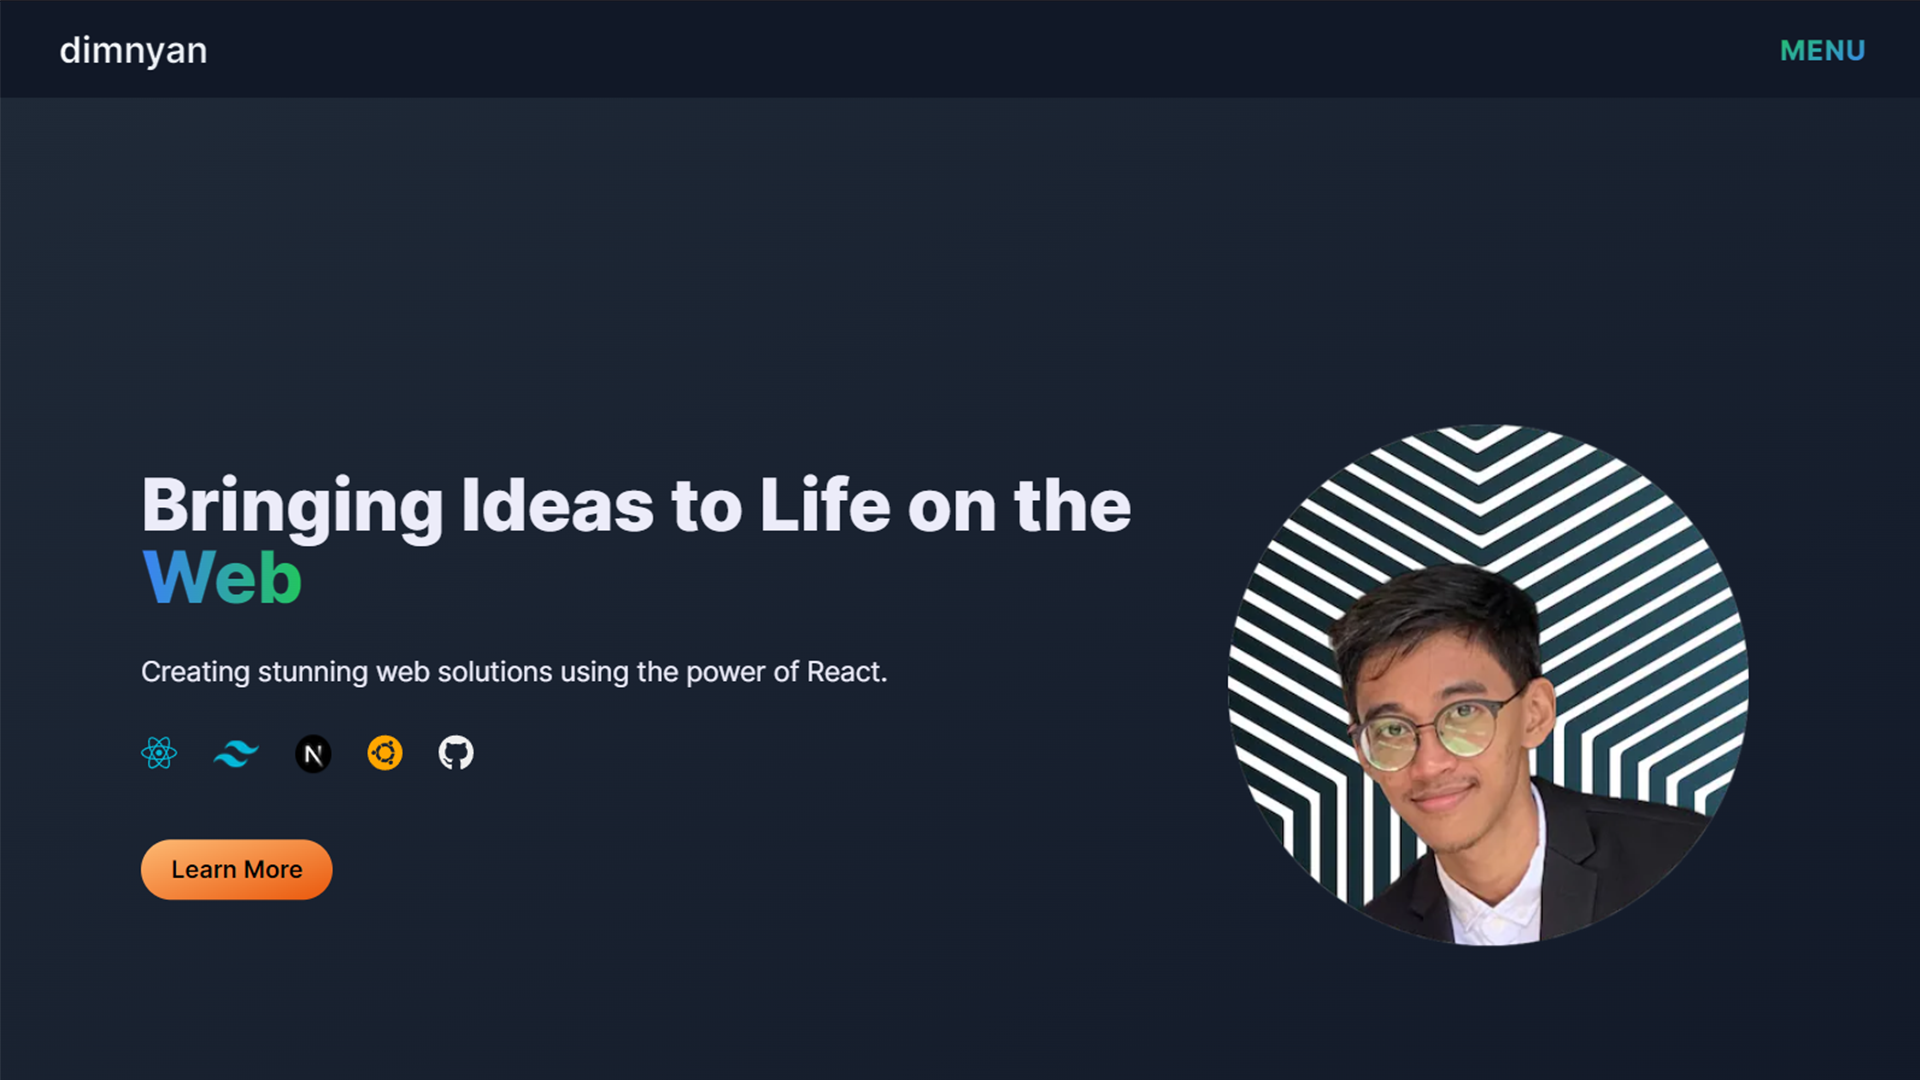
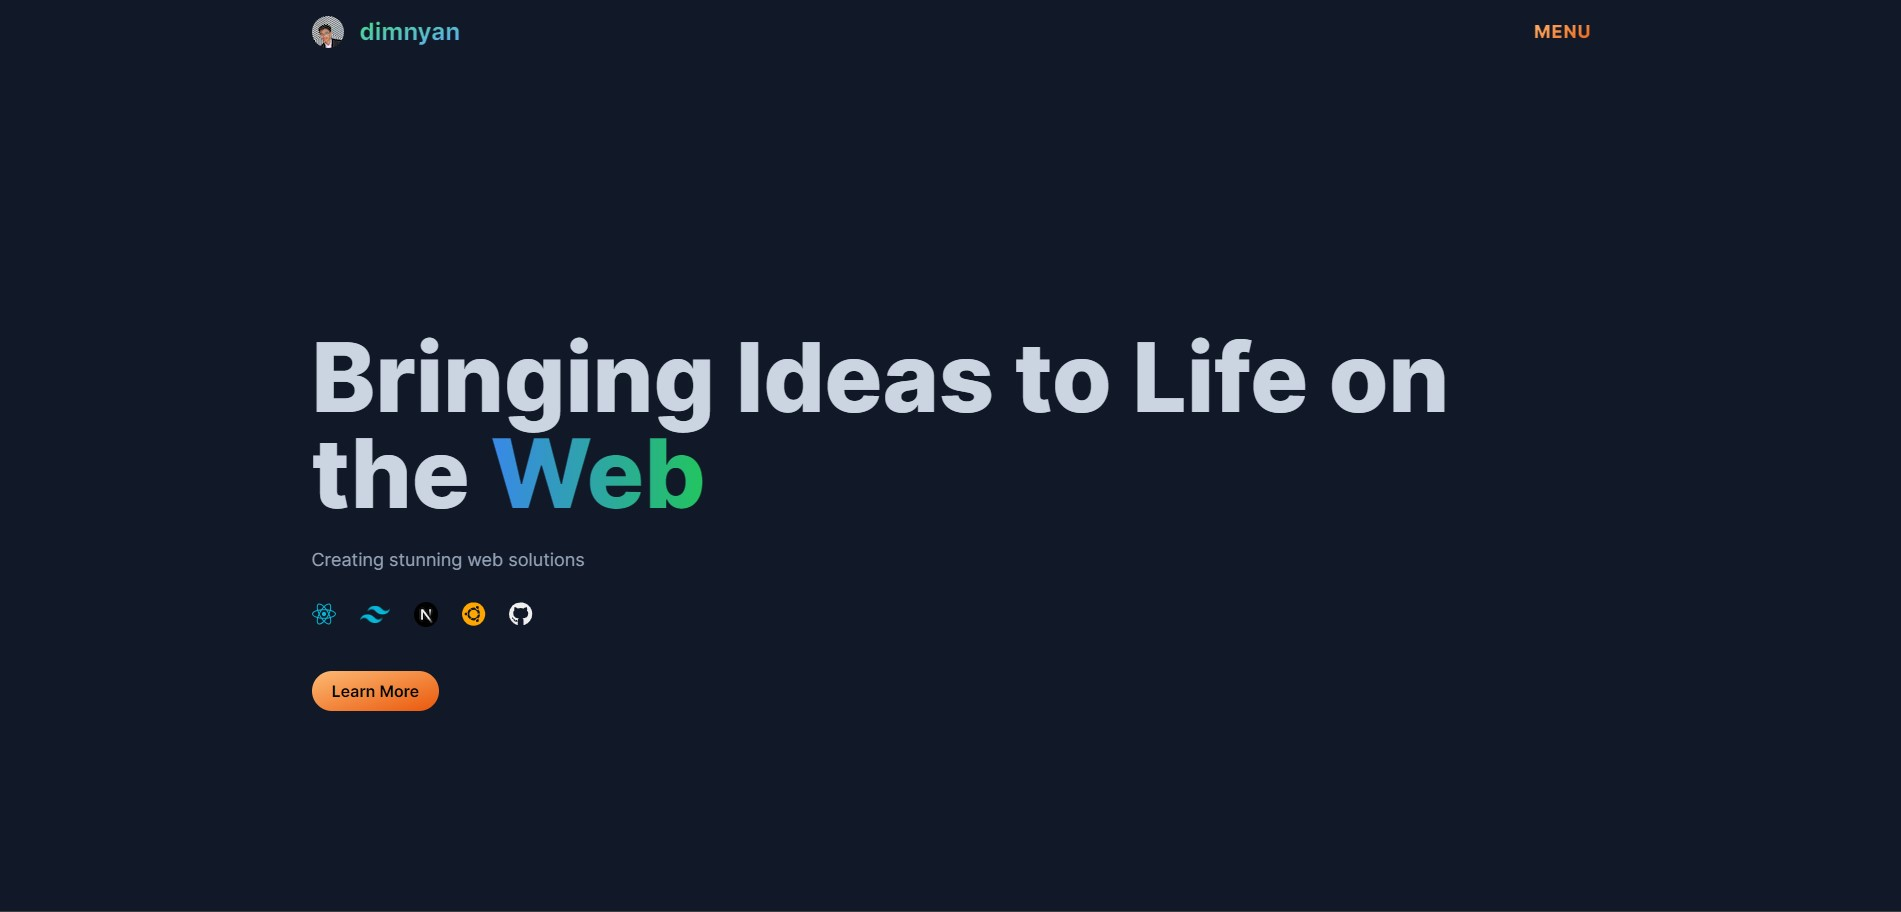
SEO

diff --git a/src/app/projects/page.jsx b/src/app/projects/page.jsx
@@ -1,17 +1,25 @@
 "use client";
-import ContactMe from "@/app/_components/Projects/ContactMe";
-import Footer from "@/app/_components/Misc/Footer";
-import Navbar from "@/app/_components/Misc/Navbar";
-import ProjectBanner from "@/app/_components/Projects/ProjectBanner";
+// import ContactMe from "@/app/_components/Projects/ContactMe";
+// import Footer from "@/app/_components/Misc/Footer";
+// import Navbar from "@/app/_components/Misc/Navbar";
+// import ProjectBanner from "@/app/_components/Projects/ProjectBanner";
 import ProjectList from "@/app/_components/Projects/ProjectList";
+
+// export const metadata = {
+//   title: "Projects | dimnyan",
+//   description:
+//     "Nyoman Lanang Kresna | Indonesian Front-End IT Web Developer specialized in ReactJS",
+// };
 
 function Projects() {
   return (
-    <div className="bg-black" style={{ color: "#ECECF9" }}>
-      {/* <ProjectBanner /> */}
-      <ProjectList />
-      {/* <ContactMe /> */}
-    </div>
+    <>
+      <div className="bg-black" style={{ color: "#ECECF9" }}>
+        {/* <ProjectBanner /> */}
+        <ProjectList />
+        {/* <ContactMe /> */}
+      </div>
+    </>
   );
 }
 

diff --git a/src/app/layout.jsx b/src/app/layout.jsx
@@ -1,3 +1,4 @@
+// import Head from "next/head";
 import Footer from "./_components/Misc/Footer";
 import Navbar from "./_components/Misc/Navbar";
 import "./globals.css";
@@ -5,12 +6,18 @@ import { Inter } from "next/font/google";
 
 const inter = Inter({ subsets: ["latin"] });
 
-export const metadata = {
-  title: "Home | dimnyan",
-  description:
-    "Nyoman Lanang Kresna | Indonesian Front-End IT Web Developer specialized in ReactJS",
-  author: { "@type": "Person", name: "Nyoman Lanang Kresna Erlangga" },
-};
+// export const metadata = {
+//   author: { "@type": "Person", name: "Nyoman Lanang Kresna Erlangga" },
+// };
+
+export async function generateMetadata() {
+  return {
+    title: "Home | dimnyan",
+    description:
+      "Nyoman Lanang Kresna | Indonesian Front-End IT Web Developer specialized in NextJS / ReactJS",
+    image: "/images/my-icon.png",
+  };
+}
 
 export default function RootLayout({ children }) {
   return (

diff --git a/src/app/_components/Misc/Navbar.jsx b/src/app/_components/Misc/Navbar.jsx
@@ -1,9 +1,9 @@
 "use client";
 
 import Link from "next/link";
-import React, { useEffect, useState } from "react";
+import { useEffect, useState } from "react";
 import { usePathname } from "next/navigation";
-import { motion, scroll, stagger, useAnimate, useScroll } from "framer-motion";
+import { motion, stagger, useAnimate } from "framer-motion";
 import Image from "next/image";
 
 const staggerMenuItems = stagger(0.1, { startDelay: 0.15 });
@@ -40,7 +40,7 @@ const useMenuAnimation = (isOpen) => {
 };
 
 const Navbar = () => {
-  const [isOpen, setIsOpen] = React.useState(false);
+  const [isOpen, setIsOpen] = useState(false);
   const pathname = usePathname();
   const scope = useMenuAnimation(isOpen);
 

diff --git a/src/app/page.jsx b/src/app/page.jsx
@@ -1,10 +1,14 @@
 "use client";
-import Footer from "@/app/_components/Misc/Footer";
+
 import IntroduceMe from "@/app/_components/Home/IntroduceMe";
 import MainBanner from "@/app/_components/Home/MainBanner";
-import Navbar from "@/app/_components/Misc/Navbar";
-import ToProjects from "@/app/_components/Home/ToProjects";
 import FeaturedProject from "./_components/Home/FeaturedProject";
+
+// export const metadata = {
+//   title: "Home | dimnyan",
+//   description:
+//     "Nyoman Lanang Kresna | Indonesian Front-End IT Web Developer specialized in ReactJS",
+// };
 
 export default function Home() {
   return (

diff --git a/src/app/_components/Projects/ProjectsItem.jsx b/src/app/_components/Projects/ProjectsItem.jsx
@@ -2,7 +2,7 @@ import Image from "next/image";
 import Link from "next/link";
 import React from "react";
 import Projects from "./ProjectsData";
-import { motion } from "framer-motion";
+// import { motion } from "framer-motion";
 
 const ProjectsItem = () => {
   return (

diff --git a/src/app/_components/Projects/ProjectList.jsx b/src/app/_components/Projects/ProjectList.jsx
@@ -1,6 +1,6 @@
 import { motion } from "framer-motion";
 import ProjectsItem from "./ProjectsItem";
-import Link from "next/link";
+// import Link from "next/link";
 
 function ProjectList() {
   return (

diff --git a/src/app/_components/Home/MainBanner.jsx b/src/app/_components/Home/MainBanner.jsx
@@ -3,7 +3,6 @@
 import { FontAwesomeIcon } from "@fortawesome/react-fontawesome";
 import {
   faReact,
-  faJs,
   faUbuntu,
   faGithub,
 } from "@fortawesome/free-brands-svg-icons";

diff --git a/src/app/_components/Home/IntroduceMe.jsx b/src/app/_components/Home/IntroduceMe.jsx
@@ -1,5 +1,5 @@
 import { motion } from "framer-motion";
-import Link from "next/link";
+// import Link from "next/link";
 
 function IntroduceMe() {
   const techStack = [

diff --git a/src/app/_components/Projects/ProjectBanner.jsx b/src/app/_components/Projects/ProjectBanner.jsx
@@ -1,4 +1,4 @@
-import Link from "next/link";
+// import Link from "next/link";
 import { motion } from "framer-motion";
 
 function ProjectBanner() {
